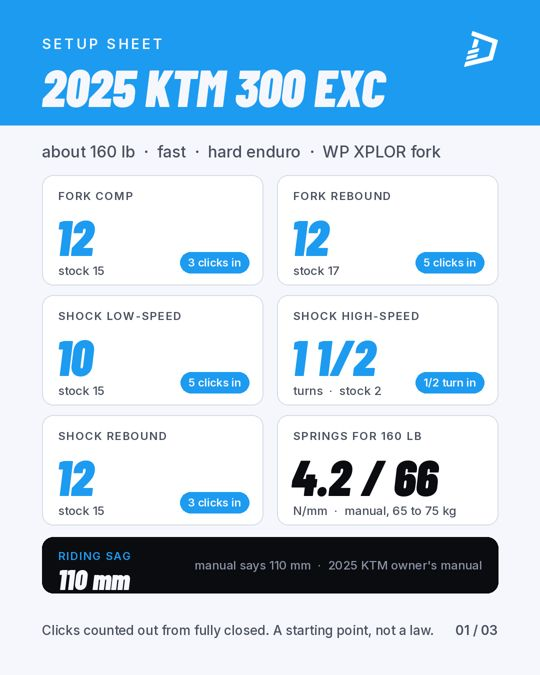
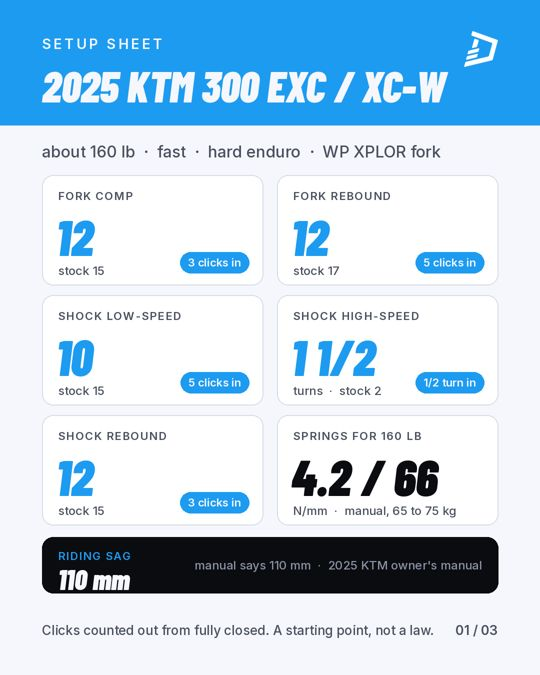
Nov 9 bike card covers the 2025 KTM 300 EXC and XC-W; sheet titles fit clear of the mark
Same 2025 manual (part 3240047en), same standard clickers, sag and spring
bands for both models on prod, so one card names both.

Claude-Session: https://claude.ai/code/session_01Jks7Uqp16X2ioobK5tWfaR

Changed region(s): [[0.0593, 0.0933, 0.8296, 0.1867]]

diff --git a/tools/weeks/2026-11-08.py b/tools/weeks/2026-11-08.py
@@ -29,9 +29,9 @@ WEEK = [
  # ------------------------------------------------------------------ Mon Nov 9
  dict(BASE, **{
   "slug": "2026-11-09-300exc-setup-sheet",
-  "title": "Settings card: 2025 KTM 300 EXC",
+  "title": "Settings card: 2025 KTM 300 EXC / XC-W",
   "design": "sheet", "kind": "carousel", "scheduled_at": _at(9, 12),
-  "caption": "2025 KTM 300 EXC. About 160 lb, fast, hard enduro, stability and grip the goals. This is the baseline "
+  "caption": "2025 KTM 300 EXC and 300 XC-W. Same manual, same stock numbers, so this one is for both. About 160 lb, fast, hard enduro, stability and grip the goals. This is the baseline "
              "Dialed built, next to the standard settings from KTM's 2025 owner's manual for the 250 and 300 EXC and "
              "XC-W.\n\n"
              "Stock is 15 and 17 on the fork, 15 clicks and 2 turns on the shock, 15 on shock rebound, 110 mm of "
@@ -40,16 +40,16 @@ WEEK = [
              "harsh in the rocks, come back toward stock two clicks at a time.\n\n"
              "All counted out from fully closed. Starting points riders refine on the bike, one change at a time.\n\n"
              "What's your 300 running for the gnarly stuff?",
-  "hashtags": "#ktm #300exc #hardenduro #twostroke #dialedoffroad",
+  "hashtags": "#ktm #300exc #300xcw #hardenduro #dialedoffroad",
   "story": "Poll on the sheet slide: \"Hard enduro: firmer or softer than stock?\" Firmer / Softer / Never changed it.",
   "slides": [
-   {"type": "cover", "eyebrow": "DIALED BASELINE", "head": "2025 KTM 300 EXC",
+   {"type": "cover", "eyebrow": "DIALED BASELINE", "head": "2025 KTM 300 EXC / XC-W",
     "sub": "about 160 lb  ·  fast  ·  hard enduro", "footer": "Swipe for the numbers"},
-   {"type": "table", "title": "STOCK VS DIALED", "sub": "2025 KTM 300 EXC  ·  about 160 lb  ·  fast  ·  hard enduro",
+   {"type": "table", "title": "STOCK VS DIALED", "sub": "2025 KTM 300 EXC / XC-W  ·  about 160 lb  ·  fast  ·  hard enduro",
     "rows": [("Fork compression", "15", "12"), ("Fork rebound", "17", "12"), ("Shock low-speed comp", "15", "10"),
              ("Shock high-speed comp", "2 turns", "1 1/2 turns"), ("Shock rebound", "15", "12"),
              ("Rider sag", "110 mm", "110 mm"), ("Springs for 65 to 75 kg", "4.2 / 66 N/mm", "manual's row")],
-    "note": "Clicks counted out from fully closed. Stock figures from the 2025 KTM 250/300 EXC owner's manual."},
+    "note": "Clicks counted out from fully closed. Stock figures from the 2025 KTM 250/300 EXC and XC-W owner's manual."},
    {"type": "points", "title": "WHAT MOVED", "items": [
     ("Fork rebound, 5 clicks in", "A slower return keeps the front calm off ledges."),
     ("Shock low-speed, 5 clicks in", "More hold for the rear on steep climbs."),
@@ -59,7 +59,7 @@ WEEK = [
    {"type": "closer", "head": "A STARTING POINT. YOU FINISH IT ON THE BIKE.",
     "sub": "Ride it, log how it felt, change one thing at a time.", "cta": CTA, "footer": FOOT},
   ],
-  "sheet_title": "2025 KTM 300 EXC",
+  "sheet_title": "2025 KTM 300 EXC / XC-W",
   "sheet_sub": "about 160 lb  ·  fast  ·  hard enduro  ·  WP XPLOR fork",
   "tiles": [("FORK COMP", "12", "stock 15", "3 clicks in"),
             ("FORK REBOUND", "12", "stock 17", "5 clicks in"),

diff --git a/tools/designs.py b/tools/designs.py
@@ -135,8 +135,12 @@ def post2(post):
     img, d = canvas(LIGHT)
     d.rectangle([0, 0, W, 250], fill=BLUE)
     tracked(d, M, 70, "SETUP SHEET", F(SEMI, 28), WHITE, 5)
-    d.text((M, 110), post.get("sheet_title", post["slides"][0]["head"]), font=F(DISPLAY, 104), fill=WHITE, anchor="la")
     mw = mark("white", 72)
+    title = post.get("sheet_title", post["slides"][0]["head"])
+    size, room = 104, W - 2 * M - mw.width - 24   # keep long titles clear of the mark and the edge
+    while size > 64 and d.textlength(title, font=F(DISPLAY, size)) > room:
+        size -= 2
+    d.text((M, 110 + (104 - size) // 2), title, font=F(DISPLAY, size), fill=WHITE, anchor="la")
     img.paste(mw, (W - M - mw.width, 62), mw)
     d = ImageDraw.Draw(img)
     d.text((M, 284), post.get("sheet_sub", post["slides"][0].get("sub", "")), font=F(MED, 32), fill=INK_SOFT, anchor="la")

diff --git a/out/2026-11-08/review.md b/out/2026-11-08/review.md
@@ -1,6 +1,6 @@
 # Week 2026-11-08: 12 posts
 
-- **Mon Nov 9, 12:40 PM** · Settings card: 2025 KTM 300 EXC · carousel, 3 slides · design `sheet` · `2026-11-09-300exc-setup-sheet`
+- **Mon Nov 9, 12:40 PM** · Settings card: 2025 KTM 300 EXC / XC-W · carousel, 3 slides · design `sheet` · `2026-11-09-300exc-setup-sheet`
   Story: Poll on the sheet slide: "Hard enduro: firmer or softer than stock?" Firmer / Softer / Never changed it.
 - **Mon Nov 9, 6:40 PM** · Carousel: riding sag by manual cheat sheet · carousel, 9 slides · design `paper_list` · `2026-11-09-sag-by-manual`
   Story: Quiz sticker on the Yamaha slide: "Yamaha's sag window?" 80 to 90 / 90 to 100 / 105 flat.
